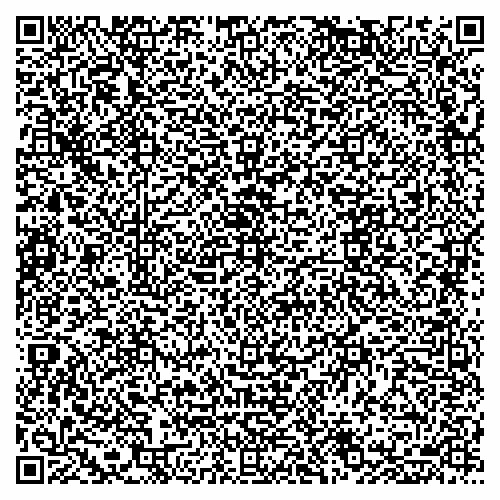
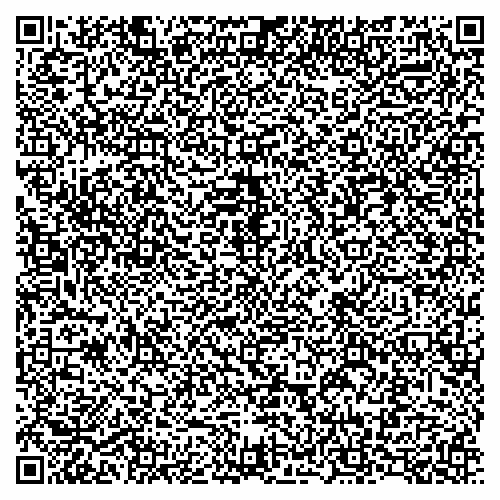
# Commit Victor

diff --git a/resources/views/virtual.blade.php b/resources/views/virtual.blade.php
@@ -42,20 +42,58 @@
     @foreach($sala_user as $sala)
     @if($item->id==$sala->sala_id)
     @if($user == $sala->user_id)
-    <?php $id=$item->id ?>
+    <?php $id = $item->id ?>
+
+<?php 
+$pasta = $_SERVER['DOCUMENT_ROOT'] . '/sala/'.$id; 
+if(!is_dir($pasta)) die("<h2>O caminho $pasta não existe</h2>");
+
+
+$arquivos = glob("$pasta/{*.[pP][nN][gG]}", GLOB_BRACE);
+
+$i = 0;
+
+?>
 
 
 
-</div>
+<div id="carouselExampleControls"  class="carousel slide" data-ride="carousel">
+  <div class="carousel-inner ">
+
+    @foreach($arquivos as $img){ 
+
+    <?php  $b = explode('public/', $img,2); ?>
+
+     @if($i == 0)
+    <div class="carousel-item active">
+      <img src="{{ asset($b[1]) }}" class="d-block w-100" alt="...">
+    </div>
+    @endif
+
+    @if($i > 0)
+    <div class="carousel-item">
+      <img  src="{{ asset($b[1]) }}" class="d-block w-100" alt="...">
+    </div>
+    @endif
+    <?php
+    $i ++;
+     ?>
+    @endforeach
+
+  </div>
   <a class="carousel-control-prev" href="#carouselExampleControls" role="button" data-slide="prev">
-    <span class="carousel-control-prev-icon" aria-hidden="true"></span>
+    <span class="fa fa-arrow-left" style="font-size: 20px; color:#000000;"aria-hidden="true"></span>
     <span class="sr-only">Previous</span>
   </a>
   <a class="carousel-control-next" href="#carouselExampleControls" role="button" data-slide="next">
-    <span class="carousel-control-next-icon" aria-hidden="true"></span>
+    <span class="fa fa-arrow-right" style="font-size: 20px; color:#000000;" aria-hidden="true"></span>
     <span class="sr-only">Next</span>
   </a>
 </div>
+
+</div>
+
+
 
     <div class="col-md-3" style="padding-top:20px;">
         <div class="card ">
@@ -82,20 +120,20 @@
     @endforeach
 
 
-    <div class="modal fade" id="salaModal" tabindex="-1" role="dialog" aria-labelledby="exampleModalScrollableTitle" aria-hidden="true">
-        <div class="modal-dialog modal-dialog-scrollable" role="document">
-            <div class="modal-content ">
+    <div class="modal fade " id="salaModal" tabindex="-1" role="dialog" aria-labelledby="exampleModalScrollableTitle" aria-hidden="true">
+        <div class="modal-dialog modal-dialog-scrollable"  role="document">
+            <div class="modal-content "  >
                 <div class="modal-header" style="background-color:#2F4F4F;">
                     <h5 class="modal-title"></h5>
-                    <h5 style="  font-size: 20px;  margin-left:250px;  color:#ffffff;
+                    <h5 style="  font-size: 20px;  margin-left:250px; color:#ffffff;
         " id="exampleModalScrollableTitle"> </h5>
 
                 </div>
-                <div class="modal-body">
+                <div class="modal-body " >
 
-                    <h3 class="sala_name" align="center">Sala</h3>
-              <?php 
+                    <h3 class="sala_name" align="center">Sala</h3> 
 
+<?php 
 $pasta = $_SERVER['DOCUMENT_ROOT'] . '/sala/'.$id; 
 if(!is_dir($pasta)) die("<h2>O caminho $pasta não existe</h2>");
 
@@ -106,72 +144,46 @@ $i = 0;
 
 ?>
 
-<?php echo 'Total:'.count($arquivos); ?>
-<div id="carouselExampleControls" class="carousel slide" data-ride="carousel" style="width: 300px;"> 
-  <div class="carousel-inner ">
-    <?php
-foreach($arquivos as $img){ 
-          
-          $b = explode('public/', $img,2);
-        
-            
-    ?>
 
-   @if($i == 0)
+
+<div id="carouselExampleControls"  class="carousel slide" data-ride="carousel">
+  <div class="carousel-inner ">
+
+    @foreach($arquivos as $img){ 
+
+    <?php  $b = explode('public/', $img,2); ?>
+
+     @if($i == 0)
     <div class="carousel-item active">
-        <img class="card-img-top" src="{{ asset($b[1]) }}" class="d-block w-100" alt="..."/>
-    </div>
-    @else
-     <div class="carousel-item">
-        <img class="card-img-top" src="{{ asset($b[1]) }}" class="d-block w-100" alt="..."/>
+      <img src="{{ asset($b[1]) }}" class="d-block w-100" alt="...">
     </div>
     @endif
 
-    <?php 
-     
-     $i++;
-}
-
-
-
-
-?>
-                    <input type="hidden" name="sala_id" id="sala_id">
-                </div>
-                <div class="modal-footer">
-                    <button type="button" class="btn btn-primary" data-dismiss="modal">Close</button>
-
-                </div>
-            </div>
-        </div>
-    </div>
-
-
-
-
-<!-- <div id="carouselExampleControls" class="carousel slide" data-ride="carousel" style="width: 300px; height: 300px;">
-  <div class="carousel-inner ">
-    <div class="carousel-item active">
-      <img src="{{ asset('img/aluno.png') }}" class="d-block w-100" alt="...">
-    </div>
+    @if($i > 0)
     <div class="carousel-item">
-      <img src="{{ asset('img/professor.png') }}" class="d-block w-100" alt="...">
+      <img  src="{{ asset($b[1]) }}" class="d-block w-100" alt="...">
     </div>
-    <div class="carousel-item">
-      <img src="{{ asset('img/console.png') }}" class="d-block w-100" alt="...">
-    </div>
+    @endif
+    <?php
+    $i ++;
+     ?>
+    @endforeach
+
   </div>
   <a class="carousel-control-prev" href="#carouselExampleControls" role="button" data-slide="prev">
-    <span class="carousel-control-prev-icon" aria-hidden="true"></span>
+    <span class="fa fa-arrow-left" style="font-size: 20px; color:#000000;"aria-hidden="true"></span>
     <span class="sr-only">Previous</span>
   </a>
   <a class="carousel-control-next" href="#carouselExampleControls" role="button" data-slide="next">
-    <span class="carousel-control-next-icon" aria-hidden="true"></span>
+    <span class="fa fa-arrow-right" style="font-size: 20px; color:#000000;" aria-hidden="true"></span>
     <span class="sr-only">Next</span>
   </a>
-</div> -->
+</div>
 
-
+</div>
+</div>
+</div>
+</div>
 
 @endsection
 

diff --git a/app/Http/Controllers/Json.php b/app/Http/Controllers/Json.php
@@ -68,7 +68,7 @@ class Json extends Controller
 $salaid = $sala->id;  
 $ijson = 0;
 $conta =0;
-$limite = 2100;
+$limite = 200;
 $n=1;
 
 // Lógica para saber Qual a próxima pergunta a exibir !!!!!!!
@@ -400,27 +400,23 @@ $total = strlen($base);
 
 $cast = $total / $limite;
 
-
+$ntotal = intval($cast);
 
 $cast = number_format($cast, 2, '.', ',');
-
-
 
 $cast = substr($cast, -2);
 
 
 
 
-
-
-
-$ntotal = $cast;
-
+if($cast > 0){
+$ntotal = $ntotal + 1;
+}
 
 
 if ($total <= $limite){
 
-$append  = "append :" . $n . "|" . (int)$ntotal ."|";
+$append  = "append|" . $n . "|" . $ntotal ."|";
 $qr = $append.$base;
 // $qr = $base;
 QrCode::format('png')->size(500)->generate($qr,'../public/sala'.DIRECTORY_SEPARATOR.$salaid.DIRECTORY_SEPARATOR.$n.'.png');
@@ -437,7 +433,7 @@ $rest = substr($base, $conta, $limite);
 $conta = $conta + strlen($rest);
 
 
-$append  = "append :" . $n . "|" . $ntotal ."|";
+$append  = "append|" . $n . "|" . $ntotal ."|";
 $qr = $append.$base;
 
 QrCode::format('png')->size(500)->generate( $qr , '../public/sala'.DIRECTORY_SEPARATOR.$salaid.DIRECTORY_SEPARATOR.$n.".png");
@@ -450,13 +446,7 @@ $n ++;
 
 
 
- QrCode::format('png')->size(500)->generate( json_encode($jsn) , '../public/sala'.DIRECTORY_SEPARATOR.$salaid.DIRECTORY_SEPARATOR."json.png");
-
-
-//return view('qrcode',['data' => $salaid, 'json'=> json_encode($jsn)] );
-
  
-
 
 }
  

diff --git a/app/Http/Controllers/SalaController.php b/app/Http/Controllers/SalaController.php
@@ -304,7 +304,7 @@ class SalaController extends Controller
 
                         $user2 = array(
 
-                            'id' => 0
+                            'id' => -1
 
                         );
                     }
